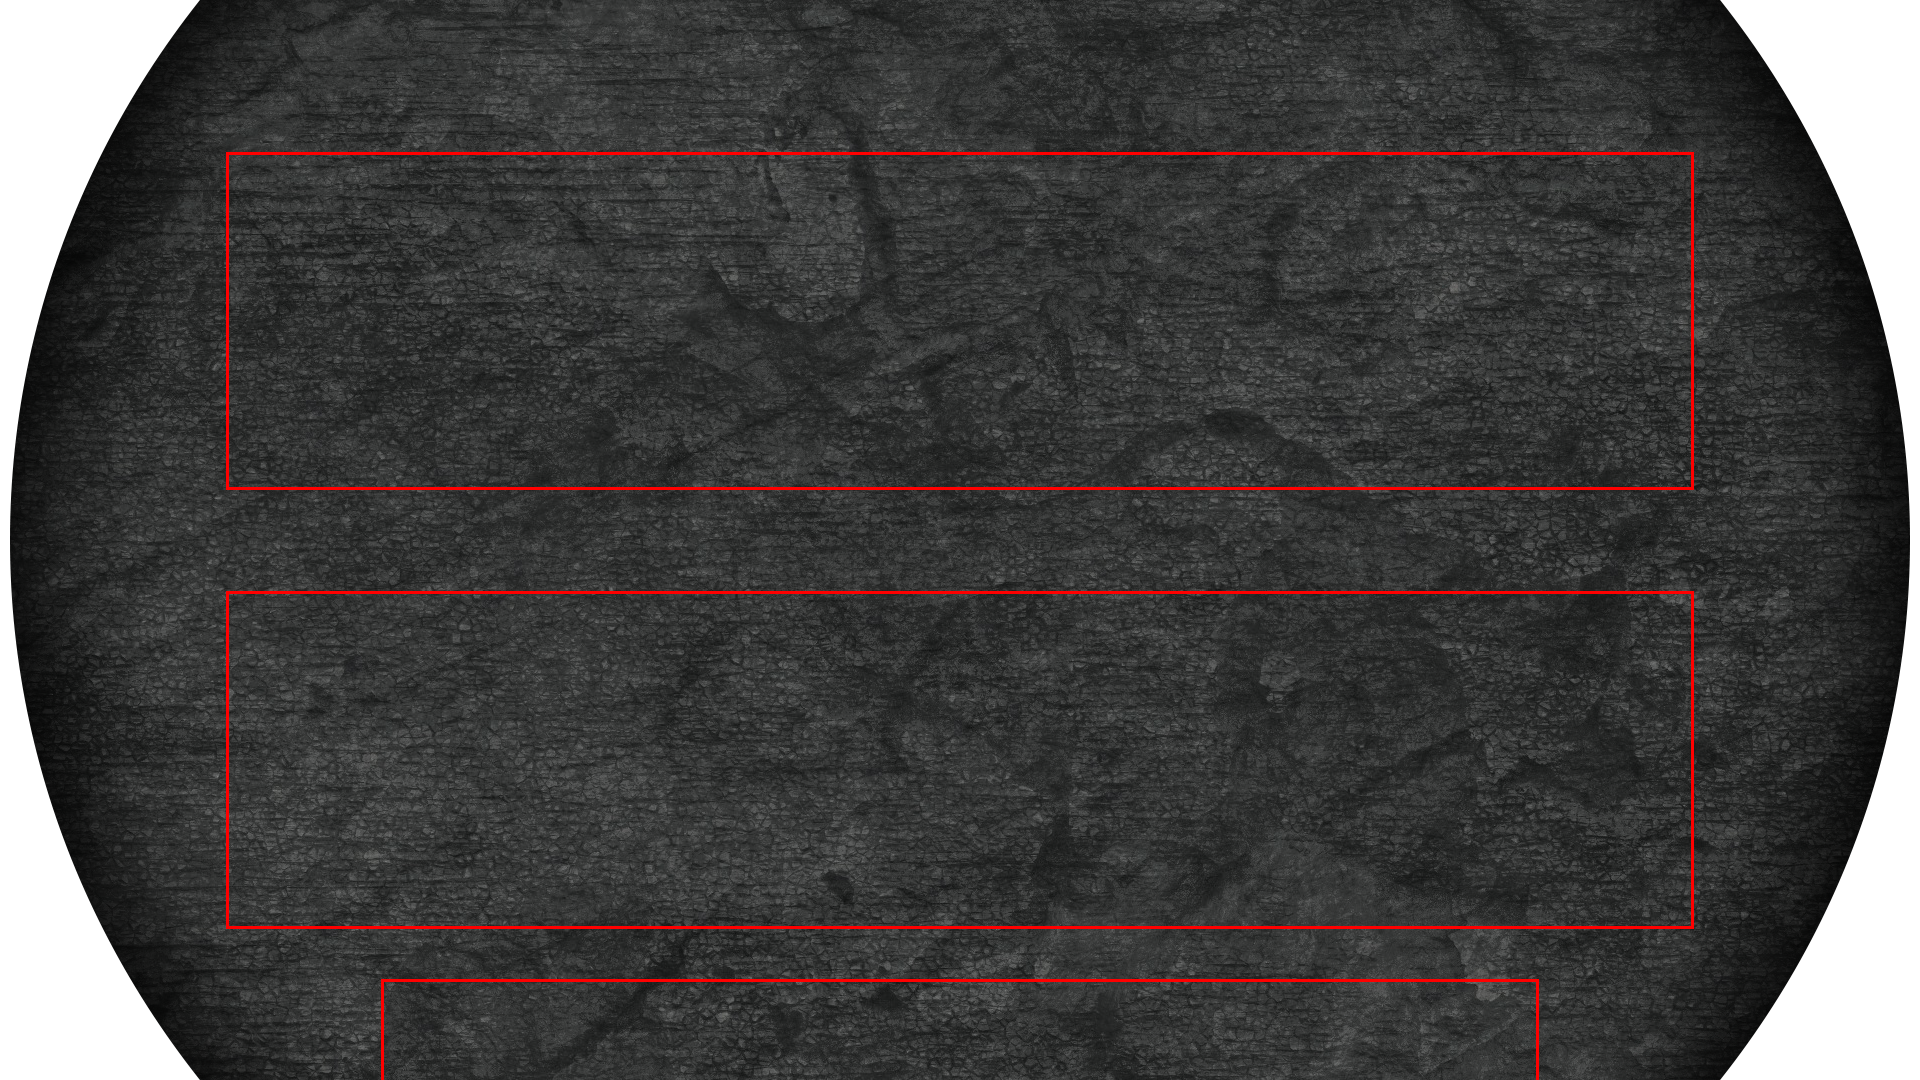
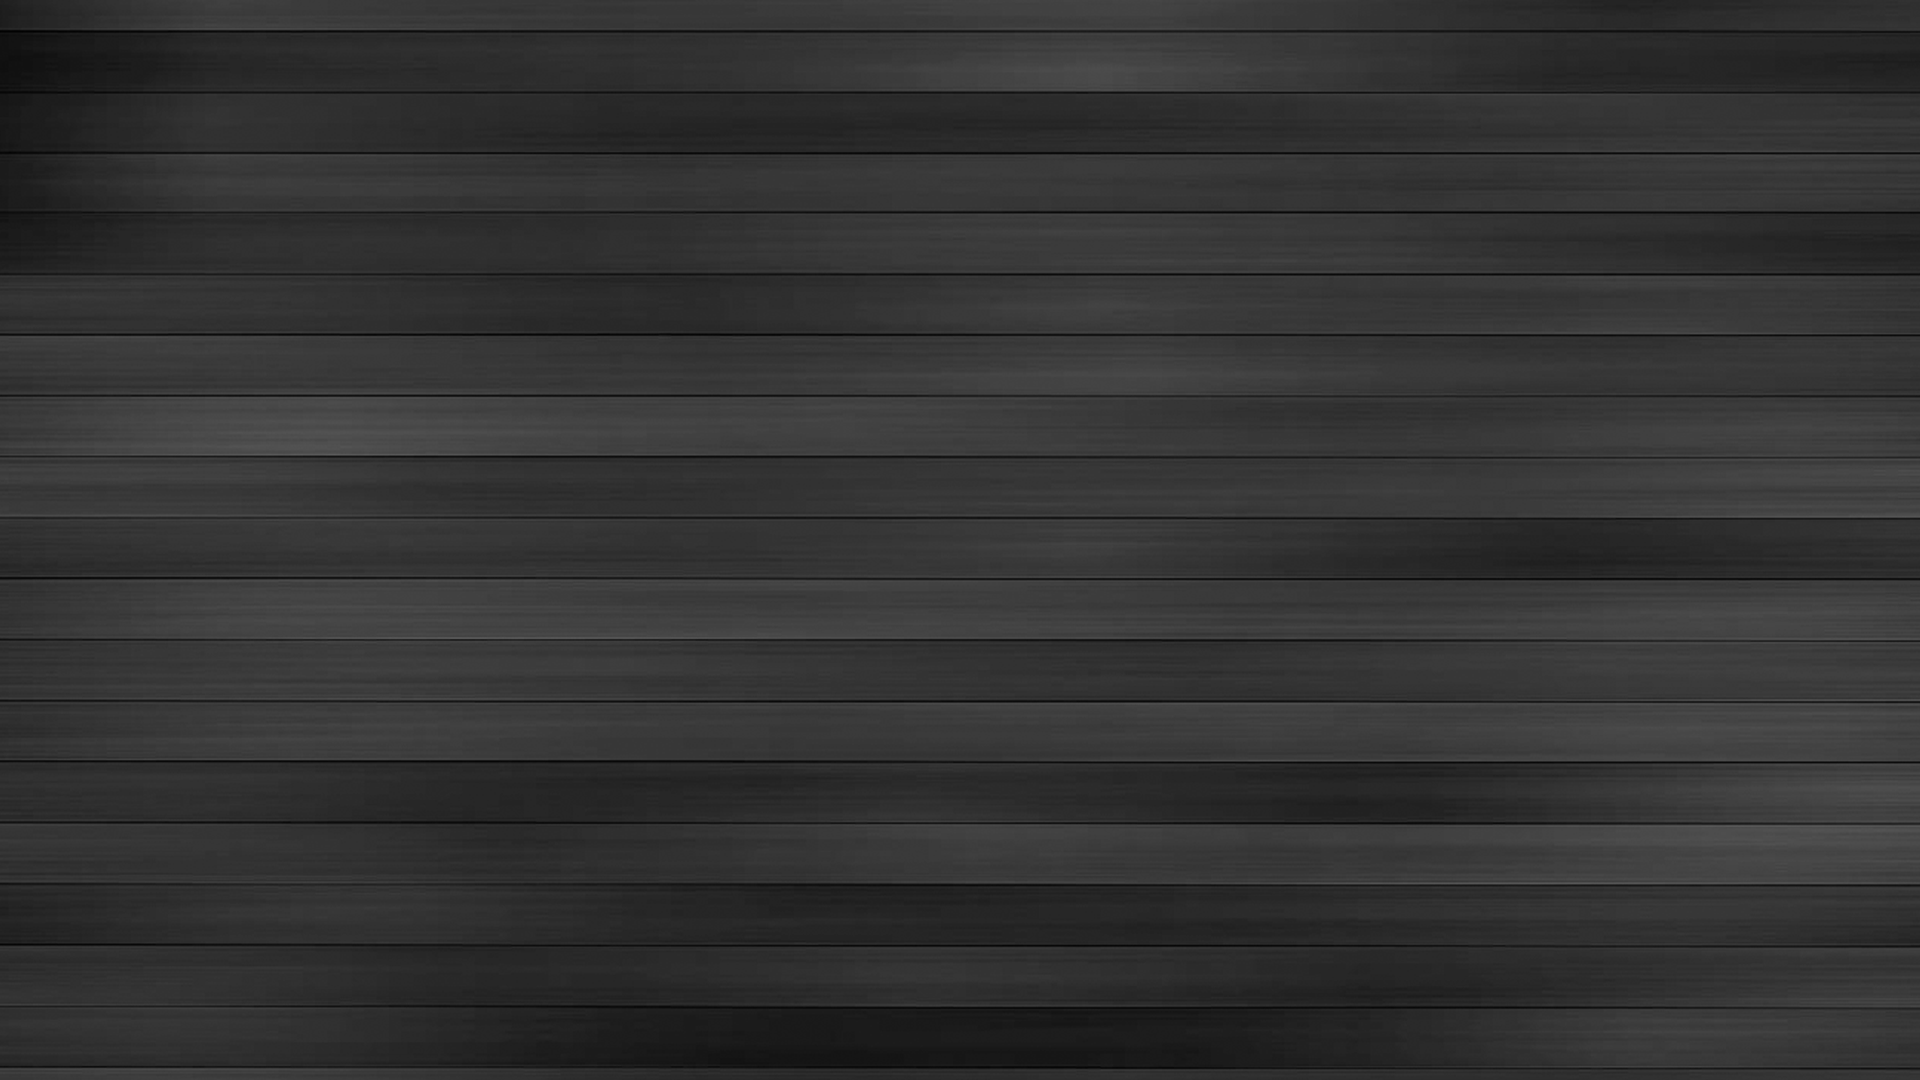
Arena UI Update 2 (0.131)
+ Arena cards are now rotated and presented in a better looking way.
+ Arena background graphic updated.
+ Bot hand added to arena with a new back of card graphic.
+ Game window has been hard-locked to 1920x1080 resolution and can't be
re-sized anymore.
+ Game has been updated to version 0.131

diff --git a/monster_battle_arena/Arena.java b/monster_battle_arena/Arena.java
@@ -10,9 +10,12 @@ import java.util.Random;
 import java.util.Stack;
 import java.util.concurrent.ThreadLocalRandom;
 import javafx.scene.Group;
+import javafx.scene.Node;
+import javafx.scene.effect.DropShadow;
 import javafx.scene.image.Image;
 import javafx.scene.image.ImageView;
 import javafx.scene.layout.HBox;
+import javafx.scene.paint.Color;
 
 /**
  * @author Coleman Rogers
@@ -27,7 +30,7 @@ class Arena {
     
     // Get the contents of the arenaUI scene
     private Group arenaUI;
-    private HBox playerFieldUI, botFieldUI, playerHandUI;
+    private HBox playerFieldUI, botFieldUI, playerHandUI, botHandUI;
     
     private int currentTurn;
     private boolean hasWon = false;
@@ -38,8 +41,8 @@ class Arena {
     {
         // Import custom player data to this class and monsterList
         // to build the bot deck with
-        this.realPlayer = p;
         monsterData = monsterList;
+        this.realPlayer = p;
         this.arenaUI = sceneData;
         initBot();
         initDecks();
@@ -144,6 +147,9 @@ class Arena {
         
         this.playerHandUI = (HBox) arenaUI.getChildren().get(3);
         playerHandUI.setOnMouseEntered(e -> System.out.println("In playerHand"));
+        
+        this.botHandUI = (HBox) arenaUI.getChildren().get(4);
+        botHandUI.setOnMouseEntered(e -> System.out.println("In botHand"));
     }
 
     private void playArenaGame()
@@ -160,14 +166,14 @@ class Arena {
         botField = new ArrayList<>();
         
         // Give each player 2 cards from the pull decks
-        for (int i = 0; i < 2; i++)
+        for (int i = 0; i < 5; i++)
         {
             Monster toAdd = playerPull.pop();
             addCardImage(toAdd, playerHandUI);
             playerHand.add(toAdd);
             
             toAdd = botPull.pop();
-            addCardImage(toAdd, botFieldUI);
+            addCardImage(null, botHandUI);
             botHand.add(toAdd);
         }
         
@@ -334,33 +340,171 @@ class Arena {
         playerHandUI.getChildren().clear();
         botFieldUI.getChildren().clear();
         playerHandUI.getChildren().clear();
+        botHandUI.getChildren().clear();
         
         System.out.println("[INFO] Image data has been cleared from the scene");
     }
 
     private void addCardImage(Monster toAdd, HBox whereToAdd)
     {
-        try
+        if (toAdd == null)
         {
-            // May throw IllegalArgumentException for duplicate children added to HBox
-            ImageView card = new ImageView(new Image("/ImageAssets/Cards/card_" + toAdd.getMonsterID() + ".png", 260, 355, false, false));
-            card.setOnMouseClicked(e -> {
-                if (whereToAdd.equals(playerHandUI))
-                {
+            
+            // TODO: Card image re-sizing to a bigger size when it gets placed on the field
+            ImageView cardBack = new ImageView(new Image("/ImageAssets/Cards/card_back.png", 150, 200, false, false));
+            cardBack.setOnMouseClicked(e -> {
+                
+                System.out.println("Bot clicked card");
+                botFieldUI.getChildren().add(cardBack);
+                botHandUI.getChildren().remove(cardBack);
+                
+            });
+            
+            botHandUI.getChildren().add(cardBack);
+        }
+        
+        else 
+        {
+            DropShadow cardShadow = new DropShadow();
+            cardShadow.setColor(Color.BLACK);
+            cardShadow.setSpread(0.1);
+            cardShadow.setRadius(4);
+            
+            try
+            {
+                // May throw IllegalArgumentException for duplicate children added to HBox
+                ImageView card = new ImageView(new Image("/ImageAssets/Cards/card_" + toAdd.getMonsterID() + ".png", 200, 300, false, false));
+                
+                card.setEffect(cardShadow);
+                
+                card.setOnMouseClicked(e -> {
+
+                    card.setRotate(0);
                     playerFieldUI.getChildren().add(card);
                     playerHandUI.getChildren().remove(card);
-                }
-                else
-                {
-                    botFieldUI.getChildren().add(card);
-                    // TODO: need to make bot hand ui variable
-                }
-            });
-            whereToAdd.getChildren().add(card);
-        } catch (IllegalArgumentException err)
+                    updateCardPos();
+                    
+                });
+                
+                card.setOnMouseEntered(e -> {
+                    
+                    DropShadow highlight = new DropShadow();
+                    highlight.setColor(Color.YELLOW);
+                    highlight.setSpread(0.95);
+                    highlight.setRadius(5);
+                    
+                    highlight.setInput(cardShadow);
+                    card.setSmooth(true);
+                    card.setEffect(highlight);
+                });
+                
+                card.setOnMouseExited(e -> card.setEffect(cardShadow));
+                
+                playerHandUI.getChildren().add(card);
+                updateCardPos();
+                
+            } catch (IllegalArgumentException err)
+            {
+                ImageView card = new ImageView(new Image("/ImageAssets/Cards/missingTexture.png", 200, 300, false, false));
+                card.setEffect(cardShadow);
+                
+                card.setOnMouseClicked(e -> {
+
+                    card.setRotate(0);
+                    playerFieldUI.getChildren().add(card);
+                    playerHandUI.getChildren().remove(card);
+                    updateCardPos();
+                    
+                });
+                
+                card.setOnMouseEntered(e -> {
+                    
+                    DropShadow highlight = new DropShadow();
+                    highlight.setColor(Color.YELLOW);
+                    highlight.setSpread(0.95);
+                    highlight.setRadius(5);
+                    
+                    highlight.setInput(cardShadow);
+                    card.setSmooth(true);
+                    card.setEffect(highlight);
+                });
+                
+                card.setOnMouseExited(e -> card.setEffect(cardShadow));
+
+                playerHandUI.getChildren().add(card);
+                updateCardPos();
+            }
+        }
+    }
+    
+    // For the player only, for now
+    public void updateCardPos()
+    {
+        int handSize = playerHandUI.getChildren().size();
+
+        // If even number of cards in hand, no centered card will exist
+        double rotateValue = -10;
+
+        for (int i = 0; i < handSize; i++)
         {
-            ImageView card = new ImageView(new Image("/ImageAssets/Cards/missingTexture.png", 260, 355, false, false));
-            whereToAdd.getChildren().add(card);
+            ImageView cardToRotate = (ImageView) playerHandUI.getChildren().get(i);
+
+            // If odd # of cards in hand
+            switch (handSize)
+            {
+                case 1:
+                    cardToRotate.setRotate(0);
+                    break;
+
+                case 2:
+                    // If first iteration of loop, set rotateValue
+                    if (i == 0)
+                        rotateValue = -5;
+                    
+                    cardToRotate.setRotate(rotateValue);
+                    rotateValue += 10;
+                    break;
+
+                case 3:
+                    if (i == 0)
+                        rotateValue = -8;
+                    
+                    if (i == 1)
+                        cardToRotate.relocate(cardToRotate.getX(), cardToRotate.getY() + 50);
+                    
+                    cardToRotate.setRotate(rotateValue);
+                    rotateValue += 8;
+                    break;
+                    
+                case 4:
+                    if (i == 0)
+                        rotateValue = -10;
+                    
+                    if (i == 2)
+                        rotateValue = 6;
+                    
+                    cardToRotate.setRotate(rotateValue);
+                    rotateValue += 4;
+                    break;
+                    
+                case 5:
+                    if (i == 0)
+                    {
+                        rotateValue = -10;
+                        cardToRotate.relocate(cardToRotate.getX(), cardToRotate.getY() - 50);
+                    }
+                    
+                    if (i == 4)
+                        cardToRotate.relocate(cardToRotate.getX(), cardToRotate.getY() - 50);
+                    
+                    cardToRotate.setRotate(rotateValue);
+                    rotateValue += 5;
+                    break;
+            }
+
+            // Replace old element with rotated one
+            
+            playerHandUI.getChildren().set(i, cardToRotate);
         }
     }
 

diff --git a/monster_battle_arena/GenerateGraphics.java b/monster_battle_arena/GenerateGraphics.java
@@ -18,6 +18,7 @@ import javafx.scene.CacheHint;
 import javafx.scene.Group;
 import javafx.scene.Node;
 import javafx.scene.Scene;
+import javafx.scene.SceneAntialiasing;
 import javafx.scene.control.Button;
 import javafx.scene.control.Label;
 import javafx.scene.effect.ColorAdjust;
@@ -168,6 +169,11 @@ public class GenerateGraphics {
         mainTitle.setStroke(Color.BLUE);
         mainTitle.setFill(Color.WHITE);
         
+        Text version = new Text("v 0.131");
+        version.setFont(Font.font("Times", FontWeight.BOLD, 20));
+        version.setFill(Color.WHITE);
+        version.relocate(1280, 300);
+        
         // Make buttons to place on the main menu
         // makeButton parameters: button text content, text color, button color, text size, button width
         Button playBtn = makeButton("Play", "#00ffff", "#0d5cdb", 25, vertBox.getPrefWidth());
@@ -243,7 +249,7 @@ public class GenerateGraphics {
 
         // Add all of the nodes to the vertical box and then add to the root group
         vertBox.getChildren().addAll(mainTitle, startBtn);
-        root.getChildren().addAll(audio, video, vertBox);
+        root.getChildren().addAll(audio, video, vertBox, version);
         
         vidPlayer.play();
         audioPlayer.play();
@@ -1080,7 +1086,7 @@ public class GenerateGraphics {
     private Scene createArenaUI()
     {
         arenaGroup = new Group();
-        Scene arenaUI = new Scene(arenaGroup, 1920, 1080);
+        Scene arenaUI = new Scene(arenaGroup, 1920, 1080, false, SceneAntialiasing.BALANCED);
         
         Image arena_bg = new Image("/ImageAssets/mba_arena.png");
         ImageView arenaBgView = new ImageView(arena_bg);
@@ -1088,21 +1094,26 @@ public class GenerateGraphics {
         // NOTE: new Insets (top, right, bottom, left) spacing is in pixels
         
         // Make 2 containers for card images to be placed in
-        HBox playerField = new HBox(50);
-        playerField.setPadding(new Insets(0, 300, 0, 300));
-        playerField.relocate(226, 591);
+        HBox playerField = new HBox(20);
+        playerField.setPadding(new Insets(50, 300, 10, 300));
+        playerField.relocate(226, 350);
         
         HBox botField = new HBox(50);
-        botField.setPadding(new Insets(0, 300, 0, 300));
-        botField.relocate(226, 152);
+        botField.setPadding(new Insets(50, 300, 30, 300));
+        botField.relocate(226, 220);
         botField.setOnMouseClicked(e -> { mainStage.setScene(mainMenu); vidPlayer.play(); });
         
         // Box to display player cards in hand
-        HBox playerHand = new HBox(20);
-        playerHand.setPadding(new Insets(50, 300, 0, 300));
-        playerHand.relocate(381, 979);
+        HBox playerHand = new HBox(0);
+        playerHand.setPadding(new Insets(0, 300, 0, 200));
         
-        arenaGroup.getChildren().addAll(arenaBgView, playerField, botField, playerHand);
+        // TODO: will need to change variably with respect to # of cards in hand
+        playerHand.relocate(250, 730);
+        
+        HBox botHand = new HBox(20);
+        botHand.setPadding(new Insets(5, 300, 0, 300));
+        botHand.relocate(300, 0);
+        arenaGroup.getChildren().addAll(arenaBgView, playerField, botField, playerHand, botHand);
         
         return arenaUI;
     }

diff --git a/monster_battle_arena/Main.java b/monster_battle_arena/Main.java
@@ -17,7 +17,7 @@ import javafx.stage.Stage;
  */
 public class Main extends Application {
     
-    private final String version = "0.13";
+    private final String version = "0.131";
     private final Game game = new Game();
     private final Player player = new Player();
     private File playerData;
@@ -75,6 +75,10 @@ public class Main extends Application {
                 
         primaryStage.setTitle("Monster Battle Arena v" + version);
         primaryStage.setScene(mainMenu);
+        primaryStage.setWidth(1920);
+        primaryStage.setHeight(1080);
+        primaryStage.setResizable(false);
+//TODO: primaryStage.setFullScreen(true);
         primaryStage.setOnCloseRequest(e -> {
         //  e.consume();      <--- will be used to add confirm dialog on close
             Platform.exit();

diff --git a/monster_battle_arena/Player.java b/monster_battle_arena/Player.java
@@ -3,13 +3,12 @@ package monster_battle_arena;
 import java.util.ArrayList;
 
 /**
- *
  * @author Coleman Rogers
- */
+ **/
 public class Player {
     
     private String name;
-    private int gemBalance = 0, gameHealth;
+    private int gemBalance = 10000, gameHealth;
     private ArrayList <Monster> cardPool = new ArrayList <>();
     private ArrayList <Monster> customDeck1 = new ArrayList <> (), customDeck2 = new ArrayList <> (), customDeck3 = new ArrayList <> ();
     
